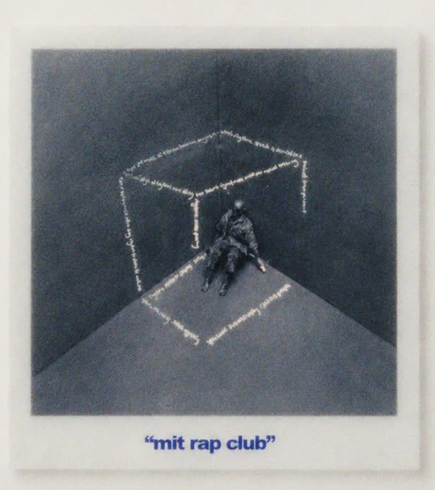
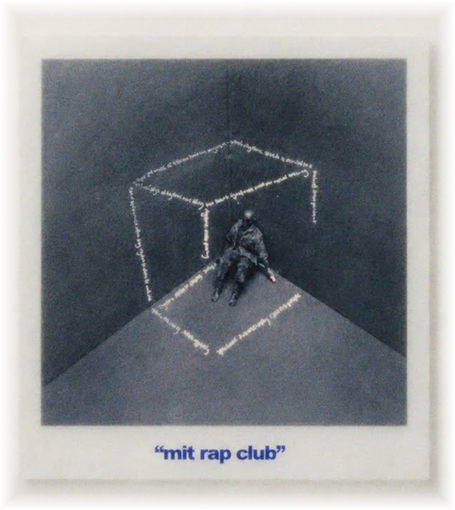
improve look of the image edges/borders

diff --git a/index.html b/index.html
@@ -44,8 +44,8 @@
 
     .polaroid {
       display: block;
-      width: min(58vw, 435px);
-      min-width: 270px;
+      width: min(60vw, 455px);
+      min-width: 280px;
       height: auto;
     }
 
@@ -98,7 +98,7 @@
 
   <h1><img class="title" src="assets/title-what-is-rap.png" alt="what is rap?" width="1384" height="322"></h1>
 
-  <img class="polaroid" src="assets/polaroid.png" width="435" height="490"
+  <img class="polaroid" src="assets/polaroid.png" width="455" height="510"
        alt="Polaroid photo captioned &ldquo;mit rap club&rdquo;: a figure sitting inside a cube outlined in chalk-like text">
 
   <nav class="events" aria-label="Events">